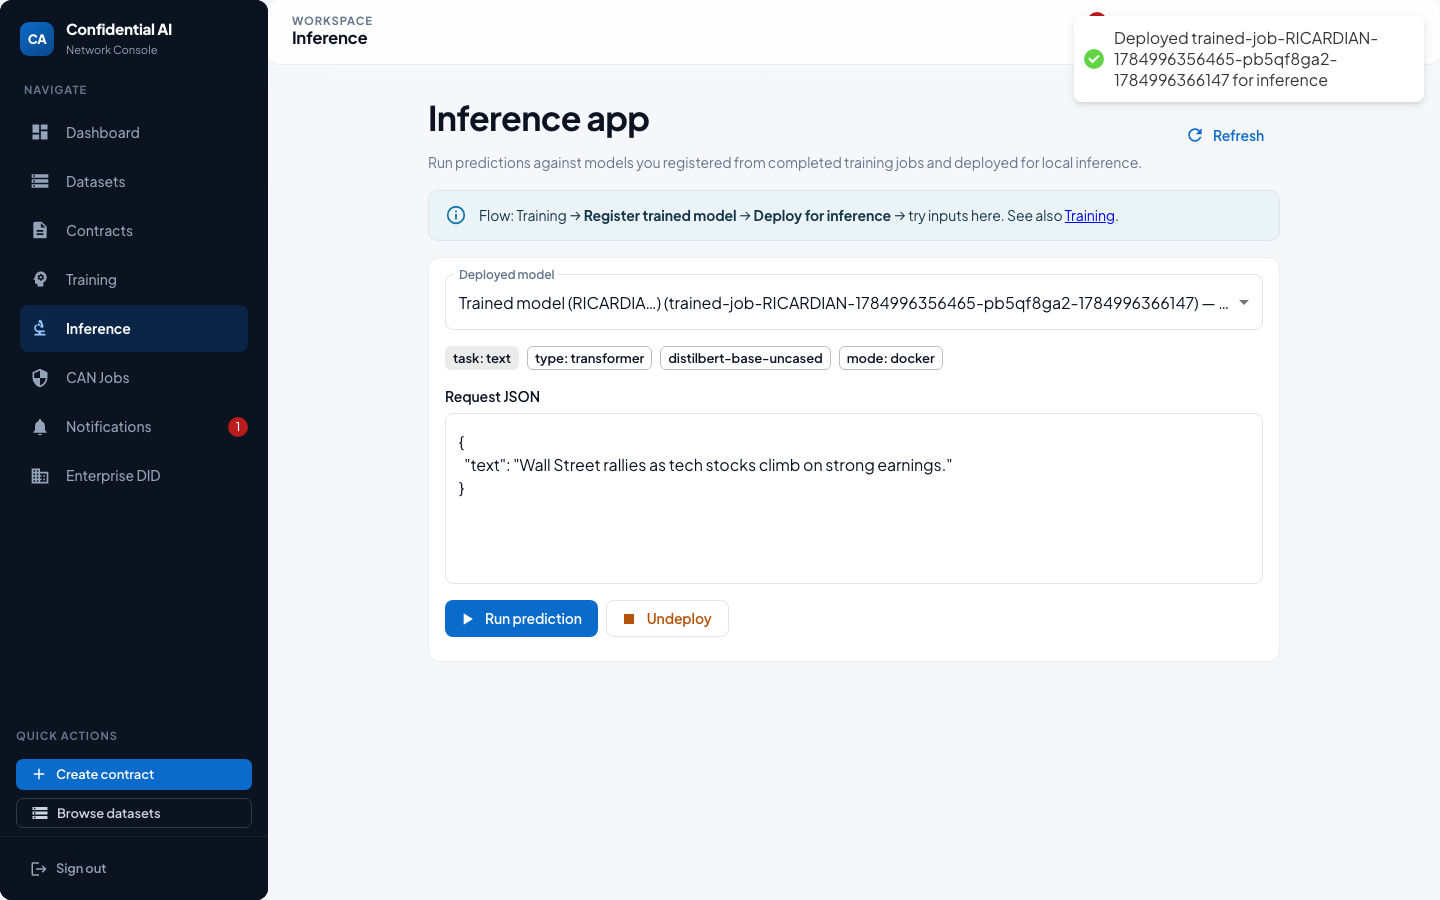
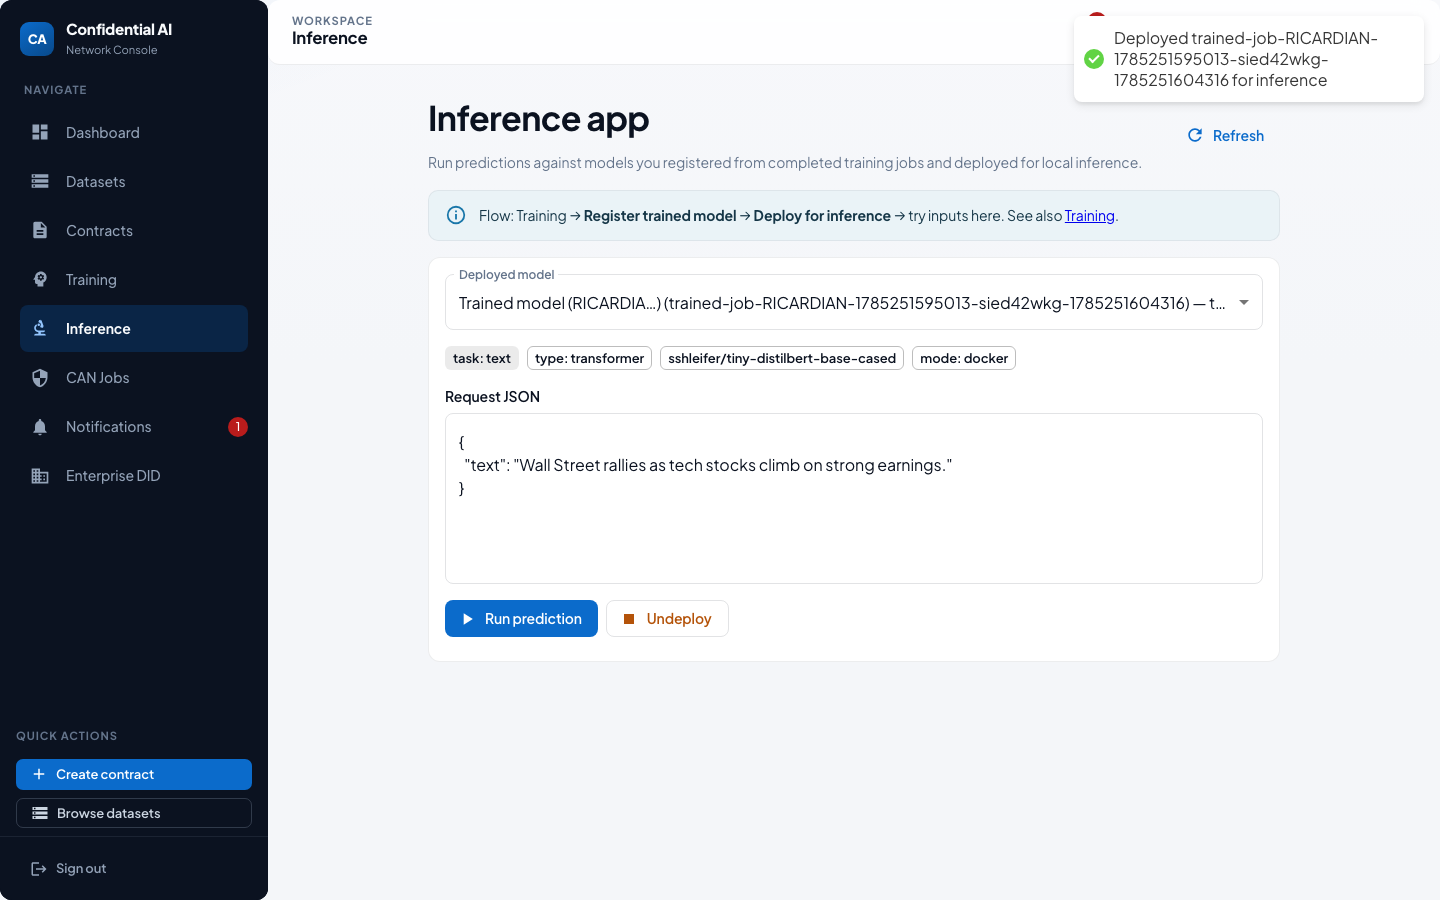
docs: refresh lifecycle screenshots with USD for US-East
Regenerate the E2E product-tour images so money displays as USD ($)
instead of INR (₹), matching DEPLOYMENT_CURRENCY for the US deployment.

Changed region(s): [[0.4688, 0.3733, 0.7188, 0.4044], [0.625, 0.3111, 0.8438, 0.3422], [0.7812, 0.0622, 0.9375, 0.0933]]

diff --git a/docs/guides/lifecycle-user-guide/LIFECYCLE_USER_GUIDE.md b/docs/guides/lifecycle-user-guide/LIFECYCLE_USER_GUIDE.md
@@ -1,7 +1,7 @@
 # End-to-End Lifecycle Guide — Onboard → Sign → Train → Inference
 
 > Auto-generated by Playwright (`npm run test:e2e:lifecycle-guide` in `frontend/`).
-> Screenshots refreshed: **2026-07-25**. Prefer regenerating over hand-editing images.
+> Screenshots refreshed: **2026-07-28**. Prefer regenerating over hand-editing images.
 
 This guide walks through the full multi-party happy path in the local stack:
 
@@ -86,8 +86,8 @@ Configure the enterprise TSP with a **Local** provider so contracts can run with
 
 ### 8. TDC creates contract — NLP model & dataset
 
-The TDC selects the TDP **AG News** NLP dataset and the catalog model **DistilBERT Quality**.
-Contract terms reference **PyTorch** / **DistilBERT** training for meaningful AG News inference labels.
+The TDC selects the TDP **AG News** NLP dataset and the catalog model **Tiny DistilBERT (NLP DP)**.
+Contract terms reference **PyTorch** training with **differential privacy (DP-SGD)**.
 
 ![TDC creates contract — NLP model & dataset](screenshots/08-tdc-create-details.png)
 
@@ -140,12 +140,12 @@ On **Training**, the TDC starts a job for the signed contract (`TRAINING_EXECUTI
 
 ![TDC starts training](screenshots/16-tdc-training-ready.png)
 
-### 17. Training completed (PyTorch DistilBERT)
+### 17. Training completed (PyTorch + DP-SGD)
 
 When the local trainer finishes, the job status is **COMPLETED**.
-This tour uses the **quality** profile: **PyTorch** / **DistilBERT** on AG News so inference labels are meaningful for stakeholders.
+For this tour the run uses **PyTorch** / **Tiny DistilBERT** with **differential privacy (DP-SGD)** metrics when available.
 
-![Training completed (PyTorch DistilBERT)](screenshots/17-tdc-training-completed.png)
+![Training completed (PyTorch + DP-SGD)](screenshots/17-tdc-training-completed.png)
 
 ### 18. TDC views provenance report
 
@@ -189,7 +189,7 @@ For this NLP tour the example is a short news headline (`{ "text": "..." }`).
 ### 24. Inference app — prediction result
 
 **Run prediction** calls the local inferencer (`infer.py` via Docker) against the trained DistilBERT artifact.
-With the **quality** profile, the default Wall Street headline predicts **Business** (AG News: World / Sports / Business / Sci/Tech).
+The result shows the predicted AG News class label (World / Sports / Business / Sci/Tech) and probabilities.
 
 ![Inference app — prediction result](screenshots/24-tdc-inference-predict.png)
 
